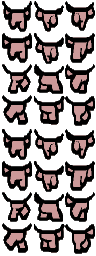
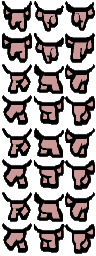
Isaac head image update

Changed region(s): [[0.0, 0.5, 1.0, 0.75]]

diff --git a/demo/TheBuildingOfIsaac/game_sample/js/isaacHead.js b/demo/TheBuildingOfIsaac/game_sample/js/isaacHead.js
@@ -1,33 +1,33 @@
-var IsaacHead = function(file, options,file2 ,option2) {
+var IsaacHead = function(file, options) {
     this.url = file;
-    //AnimationSprite當圖片是一整張圖片(連續圖), 而非Array時一定要給col, row三個(url是一定要的)
-    this.sprite = new Framework.AnimationSprite({url:this.url, col:3 , row:4 , loop:true , speed:12});
+    //Animationsprite1當圖片是一整張圖片(連續圖), 而非Array時一定要給col, row三個(url是一定要的)
+    this.sprite1 = new Framework.AnimationSprite({url:this.url, col:3 , row:4 , loop:true , speed:12});
 
-    this.sprite.scale = 2;
-    this.sprite.index = 1;
+    this.sprite1.scale = 2;
+    this.sprite1.index = 1;
     var PIXEL_CONST = 64;
-    //this.sprite.start({ from: 0, to: 2, loop: true});
+    //this.sprite1.start({ from: 0, to: 2, loop: true});
     this.mapPosition = {x:0, y:0};
-    this.spritePosition = {x:0, y:0};
+    this.sprite1Position = {x:0, y:0};
     this.constants = new Constants();
 
     this.isWalking = false;
     this.StepMovedCallBack = [];
 
-    this.playerDirection = this.constants.DirectionEnum.DOWN;
-    this.shootingDirection = this.constants.DirectionEnum.DOWN;
-    //以下這句話的意思是當options.position為undefined時this.sprite.position = x: 0, y: 0}
-    //若options.position有值, 則this.sprite.position = options.position
+    this.playerDirection = this.constants.ShootingEnum.DOWN;
+    this.shootingDirection = this.constants.ShootingEnum.DOWN;
+    //以下這句話的意思是當options.position為undefined時this.sprite1.position = x: 0, y: 0}
+    //若options.position有值, 則this.sprite1.position = options.position
     //原因是在JS中, undefined會被cast成false
-    //this.sprite.position = options.position || {x: 0, y: 0};
-    //this.sprite.scale = options.scale || 1;
+    //this.sprite1.position = options.position || {x: 0, y: 0};
+    //this.sprite1.scale = options.scale || 1;
 
     //由於0會被cast成false, 故不能用上面的方法來簡化
-    //this.sprite.rotation = (Framework.Util.isUndefined(options.rotation))?0:options.rotation;
+    //this.sprite1.rotation = (Framework.Util.isUndefined(options.rotation))?0:options.rotation;
 
 
     //moveStep為位移量  格式範例{x:1,y:0}
-    this.sprite.start({ from: this.shootingDirection * 3, to: this.shootingDirection * 3 + 2, loop: true});
+    this.sprite1.start({ from: this.shootingDirection * 3, to: this.shootingDirection * 3 + 2, loop: true});
     this.walk = function(moveStep){
         console.log(moveStep);
         if(this.isWalking === false){
@@ -66,35 +66,35 @@ var IsaacHead = function(file, options,file2 ,option2) {
     this.walkAlittle = function(){
         //console.log("player walk a little " + walkSpeed);
         if(this.playerDirection === this.constants.DirectionEnum.RIGHTDOWN){
-            this.spritePosition = {x:this.spritePosition.x + walkSpeed, y:this.spritePosition.y + walkSpeed};
+            this.sprite1Position = {x:this.sprite1Position.x + walkSpeed, y:this.sprite1Position.y + walkSpeed};
         }
         else if(this.playerDirection === this.constants.DirectionEnum.LEFTDOWN){
-            this.spritePosition = {x:this.spritePosition.x - walkSpeed, y:this.spritePosition.y + walkSpeed};
+            this.sprite1Position = {x:this.sprite1Position.x - walkSpeed, y:this.sprite1Position.y + walkSpeed};
         }
         else if(this.playerDirection === this.constants.DirectionEnum.RIGHTUP){
-            this.spritePosition = {x:this.spritePosition.x + walkSpeed, y:this.spritePosition.y - walkSpeed};
+            this.sprite1Position = {x:this.sprite1Position.x + walkSpeed, y:this.sprite1Position.y - walkSpeed};
         }
         else if(this.playerDirection === this.constants.DirectionEnum.LEFTUP){
-            this.spritePosition = {x:this.spritePosition.x- walkSpeed, y:this.spritePosition.y - walkSpeed};
+            this.sprite1Position = {x:this.sprite1Position.x- walkSpeed, y:this.sprite1Position.y - walkSpeed};
         }
         else if(this.playerDirection === this.constants.DirectionEnum.DOWN){
-            this.spritePosition = {x:this.spritePosition.x, y:this.spritePosition.y + walkSpeed};
+            this.sprite1Position = {x:this.sprite1Position.x, y:this.sprite1Position.y + walkSpeed};
         }
         else if(this.playerDirection === this.constants.DirectionEnum.LEFT){
-            this.spritePosition = {x:this.spritePosition.x - walkSpeed, y:this.spritePosition.y};
+            this.sprite1Position = {x:this.sprite1Position.x - walkSpeed, y:this.sprite1Position.y};
         }
         else if(this.playerDirection === this.constants.DirectionEnum.RIGHT){
-            this.spritePosition = {x:this.spritePosition.x + walkSpeed, y:this.spritePosition.y};
+            this.sprite1Position = {x:this.sprite1Position.x + walkSpeed, y:this.sprite1Position.y};
         }
         else if(this.playerDirection === this.constants.DirectionEnum.UP){
-            this.spritePosition = {x:this.spritePosition.x, y:this.spritePosition.y - walkSpeed};
+            this.sprite1Position = {x:this.sprite1Position.x, y:this.sprite1Position.y - walkSpeed};
         }
     }
 
     this.update = function(){
-        this.sprite.update();
+        this.sprite1.update();
         if(this.isWalking){
-            if(this.mapPosition.x * PIXEL_CONST === this.spritePosition.x && this.mapPosition.y * PIXEL_CONST === this.spritePosition.y){
+            if(this.mapPosition.x * PIXEL_CONST === this.sprite1Position.x && this.mapPosition.y * PIXEL_CONST === this.sprite1Position.y){
                 this.isWalking = false;
                 //callback
                 for(var i=0; i<this.StepMovedCallBack.length; i++){
@@ -108,8 +108,8 @@ var IsaacHead = function(file, options,file2 ,option2) {
 
 
     this.draw = function(ctx){
-        this.sprite.position = {x: this.spritePosition.x, y: this.spritePosition.y};
-        this.sprite.draw(ctx);
+        this.sprite1.position = {x: this.sprite1Position.x, y: this.sprite1Position.y};
+        this.sprite1.draw(ctx);
     }
 
 
@@ -124,6 +124,6 @@ Object.defineProperty(IsaacHead.prototype, 'position', {
     },
     set: function(newValue) {
         this.mapPosition = newValue;
-        this.spritePosition = {x:this.mapPosition.x * 64, y: this.mapPosition.y * 64};
+        this.sprite1Position = {x:this.mapPosition.x * 64, y: this.mapPosition.y * 64};
     }
 });

diff --git a/demo/TheBuildingOfIsaac/game_sample/js/isaac.js b/demo/TheBuildingOfIsaac/game_sample/js/isaac.js
@@ -1,16 +1,16 @@
 //由於JS尚未支援Class(ECMAScript 6以後, 宣稱會支援)
 //目前Class寫法都是以function的方式
 //只要是this.XXX皆會是Public的property
-var Isaac = function(file, options,file2 ,option2) {
+var Isaac = function(file,option) {
     this.url = file;
-    this.url2 = file2;
+    //this.url2 = file2;
     //AnimationSprite當圖片是一整張圖片(連續圖), 而非Array時一定要給col, row三個(url是一定要的)
     this.sprite = new Framework.AnimationSprite({url:this.url, col:3 , row:8 , loop:true , speed:12});
-    this.headSprite = new Framework.AnimationSprite({url2:this.url2, col:3 , row:4 , loop:true , speed:12});
+    //this.headSprite = new Framework.AnimationSprite({url2:this.url2, col:3 , row:4 , loop:true , speed:12});
     this.sprite.scale = 2;
     this.sprite.index = 1;
-    this.headSprite.scale = 2;
-    this.headSprite.index = 1;
+    //this.headSprite.scale = 2;
+    //this.headSprite.index = 1;
     var PIXEL_CONST = 64;
     //this.sprite.start({ from: 0, to: 2, loop: true});
     this.mapPosition = {x:0, y:0};
@@ -109,13 +109,12 @@ var Isaac = function(file, options,file2 ,option2) {
 
     this.update = function(){
         this.sprite.update();
-        this.headSprite.update();
+        //this.headSprite.update();
         if(this.isWalking){
             if(this.mapPosition.x * PIXEL_CONST === this.spritePosition.x && this.mapPosition.y * PIXEL_CONST === this.spritePosition.y){
                 this.isWalking = false;
                 this.sprite.stop();
                 this.sprite.index = this.playerDirection * 3 + 1;
-
                 //callback
                 for(var i=0; i<this.StepMovedCallBack.length; i++){
                     this.StepMovedCallBack[i](this);
@@ -126,11 +125,10 @@ var Isaac = function(file, options,file2 ,option2) {
         }
     }
 
-
     this.draw = function(ctx){
         this.sprite.position = {x: this.spritePosition.x, y: this.spritePosition.y};
         this.sprite.draw(ctx);
-        this.headSprite.position = {x: this.spritePosition.x, y: this.spritePosition.y};
+        //this.headSprite.position = {x: this.spritePosition.x, y: this.spritePosition.y};
         //this.headSprite.draw(ctx);
     }
 

diff --git a/src/animationSprite.js b/src/animationSprite.js
@@ -7,18 +7,18 @@ var Framework = (function (Framework) {
         * 支援播放連續圖片的Sprite
         *
         * @class AnimationSprite
-        * @constructor 
+        * @constructor
         * @extends GameObject
-        * @param  {Object} options 
-        * options.url為要載入的圖片, 當url為一個Array時表示為零散的多張圖片, 
-        * 當為string時表示是一張大張的連續動作圖, 
-        * 故需要在提供大張連續圖的row和col. 
-        * options.speed可以設定這個Sprite播放的速度(fps), 
+        * @param  {Object} options
+        * options.url為要載入的圖片, 當url為一個Array時表示為零散的多張圖片,
+        * 當為string時表示是一張大張的連續動作圖,
+        * 故需要在提供大張連續圖的row和col.
+        * options.speed可以設定這個Sprite播放的速度(fps),
         * options.loop 則可以設定這個Sprite是否需要不斷重複播放
         * @example
         *     new Framework.AnimationSprite({url:['image1.png', 'image2.bmp']}); //多張圖片
         *     new Framework.AnimationSprite({url:' bigImage.png', col: 10 , row: 7 , loop: true , speed: 6}); //只有一張大型的連續動作圖,speed和loop為非必要項
-        * 
+        *
         */
         __construct: function(options){
             // Define variable
@@ -37,8 +37,8 @@ var Framework = (function (Framework) {
             this._index = 0;
             this.speed = 10;
             this.loop = true;
-            this.maxIndex = 0;       
-            this.speedCounter = 0;     
+            this.maxIndex = 0;
+            this.speedCounter = 0;
             this.finishPlaying = function(){};
 
 
@@ -90,8 +90,8 @@ var Framework = (function (Framework) {
         },
         _nextFrame: function(){
             if(this._start){
-                this.index++;    
-                this._changeFrame = true;        
+                this.index++;
+                this._changeFrame = true;
                 if(this.index > this.to) {
                     if(this.loop) {
                         this.index = this.from;

diff --git a/demo/TheBuildingOfIsaac/game_sample/js/map.js b/demo/TheBuildingOfIsaac/game_sample/js/map.js
@@ -24,8 +24,10 @@ var Map = function(map)
         this.increaseBombPower.scale = 1.5;
         this.stopMonster  = new Framework.Sprite(define.imagePath + 'stopMonster.png');
         this.stopMonster.scale = 1.5;
-        this.player1 = new Isaac(define.imagePath + 'player1.png', {down: {from: 0, to: 2}, left: {from:3, to: 5}, right: {from: 6, to: 8}, up: {from: 9, to: 11}},define.imagePath + 'isaacHead.png', {down: {from: 0, to: 2}, left: {from:3, to: 5}, right: {from: 6, to: 8}, up: {from: 9, to: 11}});
+        this.player1 = new Isaac(define.imagePath + 'player1.png', {down: {from: 0, to: 2}, left: {from:3, to: 5}, right: {from: 6, to: 8}, up: {from: 9, to: 11}});
+        this.player1Head = new IsaacHead(define.imagePath + 'isaacHead.png', {down: {from: 0, to: 2}, left: {from:3, to: 5}, right: {from: 6, to: 8}, up: {from: 9, to: 11}});
         this.player1.position = {x:1, y:1};
+        this.player1Head.position = {x:1, y:1};
 
         this.monster = [];
         this.stopMonster = false;
@@ -78,6 +80,7 @@ var Map = function(map)
 
     this.setPlayerPosition = function(playerPosition){
         this.player1.position = playerPosition;
+        this.player1Head.position = {x:playerPosition.x,y:playerPosition.y-0.7}
     }
     this.addMonster = function(monsterPosition)
     {
@@ -132,9 +135,11 @@ var Map = function(map)
             if(this.checkIsWalkAble(this.player1.position.x+this.playerWalkDirection.x,this.player1.position.y+this.playerWalkDirection.y))
             {
                 this.player1.walk(this.playerWalkDirection);
+                this.player1Head.walk(this.playerWalkDirection);
             }
         }
         this.player1.update();
+        this.player1Head.update();
         if(this.stopMonster === true)
         {
             this.stopMonsterCounter++;
@@ -179,6 +184,7 @@ var Map = function(map)
             this.monster[i].draw(ctx);
         }
         this.player1.draw(ctx);
+        this.player1Head.draw(ctx);
         this.score.draw(ctx);
 	}
 

diff --git a/demo/TheBuildingOfIsaac/game_sample/js/constants.js b/demo/TheBuildingOfIsaac/game_sample/js/constants.js
@@ -5,10 +5,17 @@ var Constants = function() {
         DOWN : 1,
         LEFT : 2,
         RIGHT : 3,
-        RIGHTDOWN: 4,
-        LEFTDOWN : 5,
-        LEFTUP: 6,
-        RIGHTUP: 7
+        LEFTUP: 4,
+        RIGHTUP : 5,
+        LEFTDOWN: 6,
+        RIGHTDOWN: 7
+    };
+
+    this.ShootingEnum = {
+        UP : 0,
+        DOWN : 1,
+        LEFT : 2,
+        RIGHT : 3,
     };
 
     this.ItemEnum = {
